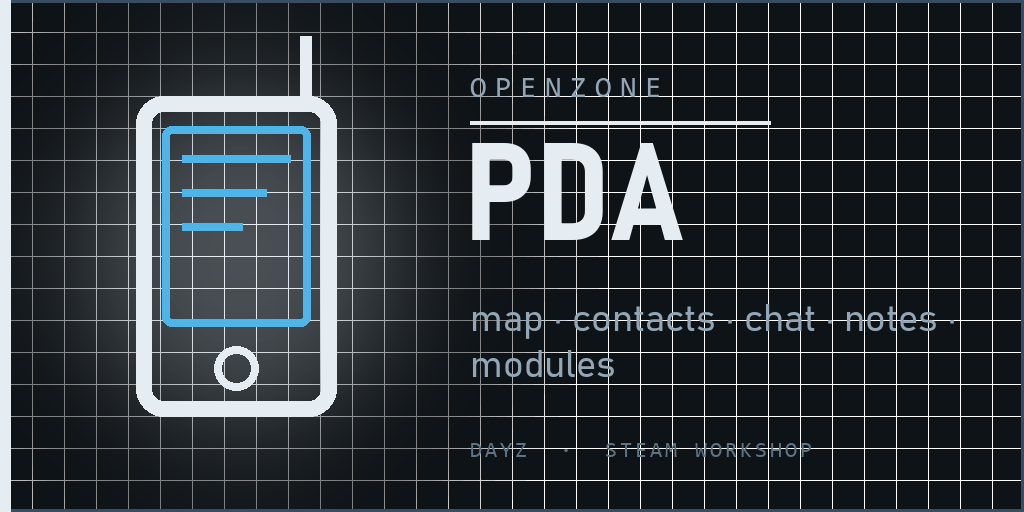
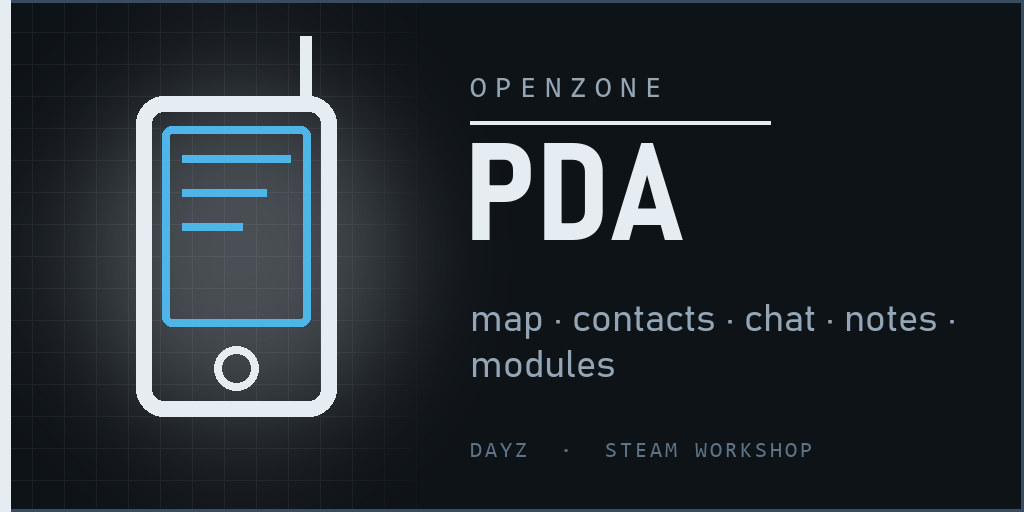
Packaging: readable Workshop titles, previews without the grid under the text
meta.cpp carries the item's Workshop title; the items are renamed from
their folder names to plain ones ("OpenZone Core", "OpenZone Radio for
PDA", "... for VPP Admin Tools"). The preview keeps its grid under the
icon only, fading out before the text column, and names no server.

diff --git a/packaging/OpenZone_PDA_VPP/meta.cpp b/packaging/OpenZone_PDA_VPP/meta.cpp
@@ -1,3 +1,3 @@
 protocol = 1;
 publishedid = 3798436822;
-name = "OZ_PDA_VPP";
+name = "OpenZone PDA for VPP Admin Tools";

diff --git a/packaging/OpenZone_PDA/meta.cpp b/packaging/OpenZone_PDA/meta.cpp
@@ -1,3 +1,3 @@
 protocol = 1;
 publishedid = 3798436693;
-name = "OZ_PDA";
+name = "OpenZone PDA";
